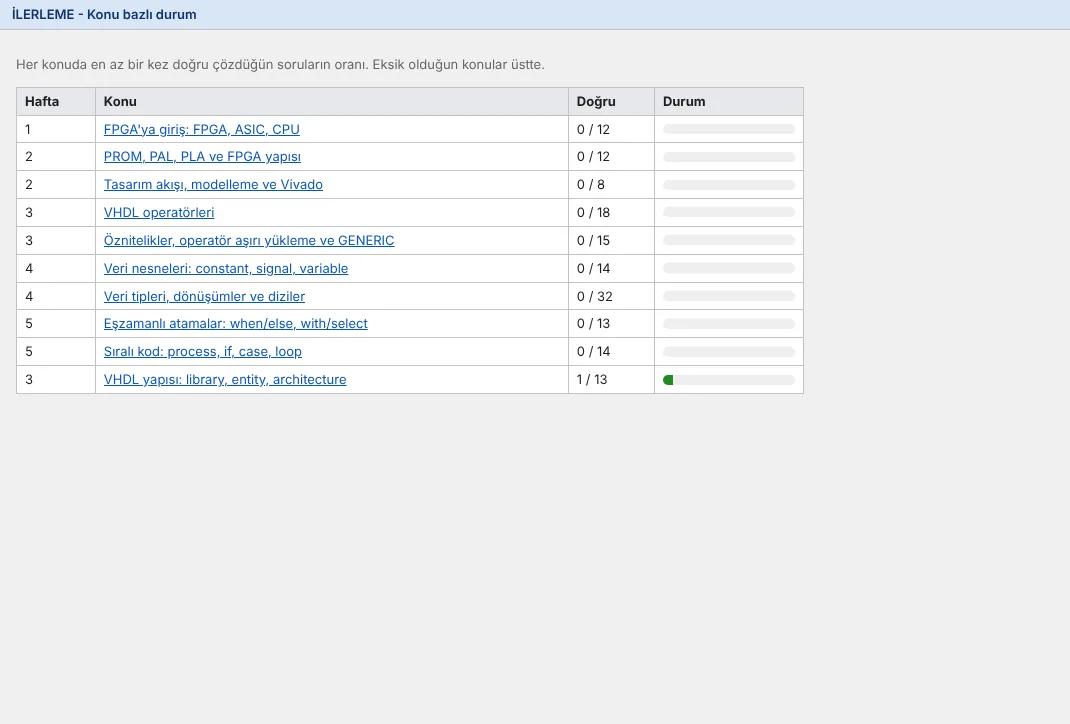
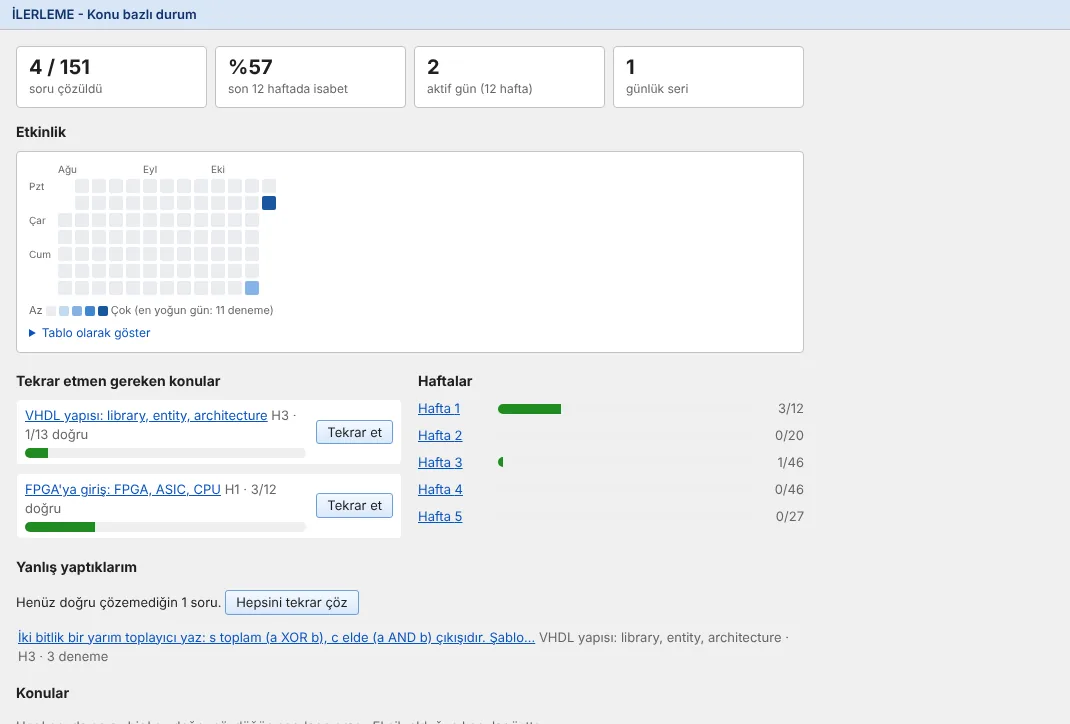
Tanıtım, S.S.S. ve gizlilik metinlerini A6'ya göre güncelle
- Tanıtım: soru havuzu ve ilerleme adımları süzgeçleri, soru
  istatistiklerini, etkinlik takvimini ve tekrar modunu anlatıyor;
  ekran görüntüleri yenilendi
- S.S.S.: "Sorular ve ilerleme" bölümü (süzgeçler, soru altındaki
  yüzde, zayıf konular, takvim ve seri)
- Gizlilik: soru istatistiklerinin anonim toplamlar olduğu belirtildi
- Şık dağılımının ilk denemelerden hesaplandığı kartta da yazıyor

Claude-Session: https://claude.ai/code/session_0142Yu3HS5gb5W9Ud7h9uLfu

diff --git a/src/sss.ts b/src/sss.ts
@@ -32,6 +32,31 @@ export const SSS: SssBolumu[] = [
     ],
   },
   {
+    baslik: "Sorular ve ilerleme",
+    sorular: [
+      {
+        soru: "Çözmediğim ya da yanlış yaptığım soruları nasıl bulurum?",
+        cevap:
+          "Soru havuzunun üstündeki süzgeçlerden **Çözmediklerim** ya da **Yanlışlarım**'ı seç. Tür, zorluk ve arama ile daraltabilirsin; süzgeçler adreste tutulduğu için bağlantıyı kaydedip sonra aynı listeye dönebilirsin. İlerlemem sayfasındaki **Hepsini tekrar çöz** düğmesi de yanlış yaptığın soruları tek listede açar.",
+      },
+      {
+        soru: "Sorunun altında çıkan yüzde ne anlama geliyor?",
+        cevap:
+          "Cevabını gönderdikten sonra, o soruyu deneyenlerin ilk denemelerinde ne kadarının doğru yaptığı gösterilir; çoktan seçmelide her şıkkın ne sıklıkla seçildiği de görünür. Her kişinin yalnızca ilk denemesi sayılır, misafirler de dahildir. Bunlar anonim toplamlardır; kimin ne cevap verdiği görünmez.",
+      },
+      {
+        soru: "\"Tekrar etmen gereken konular\" nasıl seçiliyor?",
+        cevap:
+          "İlerlemem sayfasında, en az bir sorusunu denediğin ama henüz bitirmediğin konular doğru oranına göre sıralanır; en düşük üçü gösterilir. **Tekrar et** o konunun yalnızca çözmediğin sorularını açar.",
+      },
+      {
+        soru: "Etkinlik takvimi ve günlük seri neyi sayıyor?",
+        cevap:
+          "Takvim, son 12 haftada her gün kaç cevap gönderdiğini Türkiye saatine göre gösterir; renk koyulaştıkça o gün daha çok çalışmışsındır. Günlük seri, bugünden (bugün henüz bir şey çözmediysen dünden) geriye kesintisiz çalıştığın gün sayısıdır.",
+      },
+    ],
+  },
+  {
     baslik: "Simülasyon ve kod",
     sorular: [
       {

diff --git a/src/pages/Tanitim.tsx b/src/pages/Tanitim.tsx
@@ -10,7 +10,7 @@ import { TANITIM_GORULDU } from "../components/Shell";
 const KITLELER = [
   {
     baslik: "FPGA dersini alan öğrenciler",
-    metin: "Vize ve finale hazırlanırken konuyu ders ders tekrar et, haftaya göre açılan sorularla kendini dene, eksik olduğun konuları ilerleme sayfasında gör.",
+    metin: "Vize ve finale hazırlanırken konuyu ders ders tekrar et, haftaya göre açılan sorularla kendini dene; ilerleme sayfası zayıf konularını ve yanlış yaptığın soruları önüne getirir.",
   },
   {
     baslik: "VHDL'e yeni başlayanlar",
@@ -37,7 +37,7 @@ const ADIMLAR = [
   {
     gorsel: "sorular",
     baslik: "2. Soru havuzunda kendini dene",
-    metin: "Sayfanın üstünden hafta ve konu seç. Doğru/yanlış, çoktan seçmeli ve boşluk doldurma sorularının cevabı hemen kontrol edilir, açıklaması görünür.",
+    metin: "Sayfanın üstünden hafta ve konu seç; türe, zorluğa göre süz, ara ya da yalnızca çözmediklerini göster. Cevabın hemen kontrol edilir; açıklamanın yanında soruyu ilk denemede doğru yapanların oranını ve şıkların nasıl dağıldığını görürsün.",
     bag: { page: "sorular" } as const,
     bagMetni: "Soru havuzunu aç",
   },
@@ -58,7 +58,7 @@ const ADIMLAR = [
   {
     gorsel: "ilerleme",
     baslik: "5. İlerlemeni takip et",
-    metin: "Hangi konuda ne kadar doğru yaptığını gör ve eksik olduğun konulara dön. Hesap açarsan ilerlemen her cihazda seninle gelir.",
+    metin: "Son 12 haftalık etkinlik takviminde ne kadar düzenli çalıştığını gör. En zayıf üç konuna \"Tekrar et\" ile dön, yanlış yaptığın soruları tek tıkla yeniden çöz. Hesap açarsan ilerlemen her cihazda seninle gelir.",
     bag: { page: "ilerleme" } as const,
     bagMetni: "İlerlemene bak",
   },

diff --git a/src/pages/Gizlilik.tsx b/src/pages/Gizlilik.tsx
@@ -18,7 +18,7 @@ export function Gizlilik() {
       <ul>
         <li>
           <strong>Misafir olarak:</strong> İlk cevabını gönderdiğinde rastgele bir kimlik oluşturulur ve tarayıcına tek
-          bir oturum çerezi yazılır. Hangi soruyu ne zaman, hangi cevapla denediğin bu kimlikle saklanır. Kod sorularında yazdığın VHDL kodu, sen paylaşmayı seçmedikçe sunucuya gönderilmez: benzetim tarayıcında yapılır, sunucuya yalnızca testbench'in okuduğu çıkış değerleri gider ve kaç kontrol noktasını geçtiğin saklanır.
+          bir oturum çerezi yazılır. Hangi soruyu ne zaman, hangi cevapla denediğin bu kimlikle saklanır. Kod sorularında yazdığın VHDL kodu, sen paylaşmayı seçmedikçe sunucuya gönderilmez: benzetim tarayıcında yapılır, sunucuya yalnızca testbench'in okuduğu çıkış değerleri gider ve kaç kontrol noktasını geçtiğin saklanır. Bir soruyu cevapladıktan sonra gösterilen doğru oranı ve şık dağılımı, herkesin ilk denemesinden hesaplanan anonim toplamlardır; kimin ne cevap verdiği görünmez.
         </li>
         <li>
           <strong>Hesap açarsan:</strong> kullanıcı adın, e-posta adresin, parolanın geri çevrilemez özeti (parolanın

diff --git a/src/pages/Questions.tsx b/src/pages/Questions.tsx
@@ -145,6 +145,7 @@ function Istatistik({ i, secilen }: { i: SoruIstatistigi; secilen: number | null
       <p>
         İlk denemesinde doğru cevaplayanlar: <strong>%{Math.round((i.ilkDogru / i.kisi) * 100)}</strong> ({i.kisi} kişi denedi)
       </p>
+      {i.siklar && toplam > 0 && <p className="hint">Şıkların ilk denemelerde seçilme oranı:</p>}
       {i.siklar && toplam > 0 && (
         <ul className="sik-dagilimi" aria-label="İlk denemelerde şıkların seçilme oranı">
           {i.siklar.map((n, j) => {
